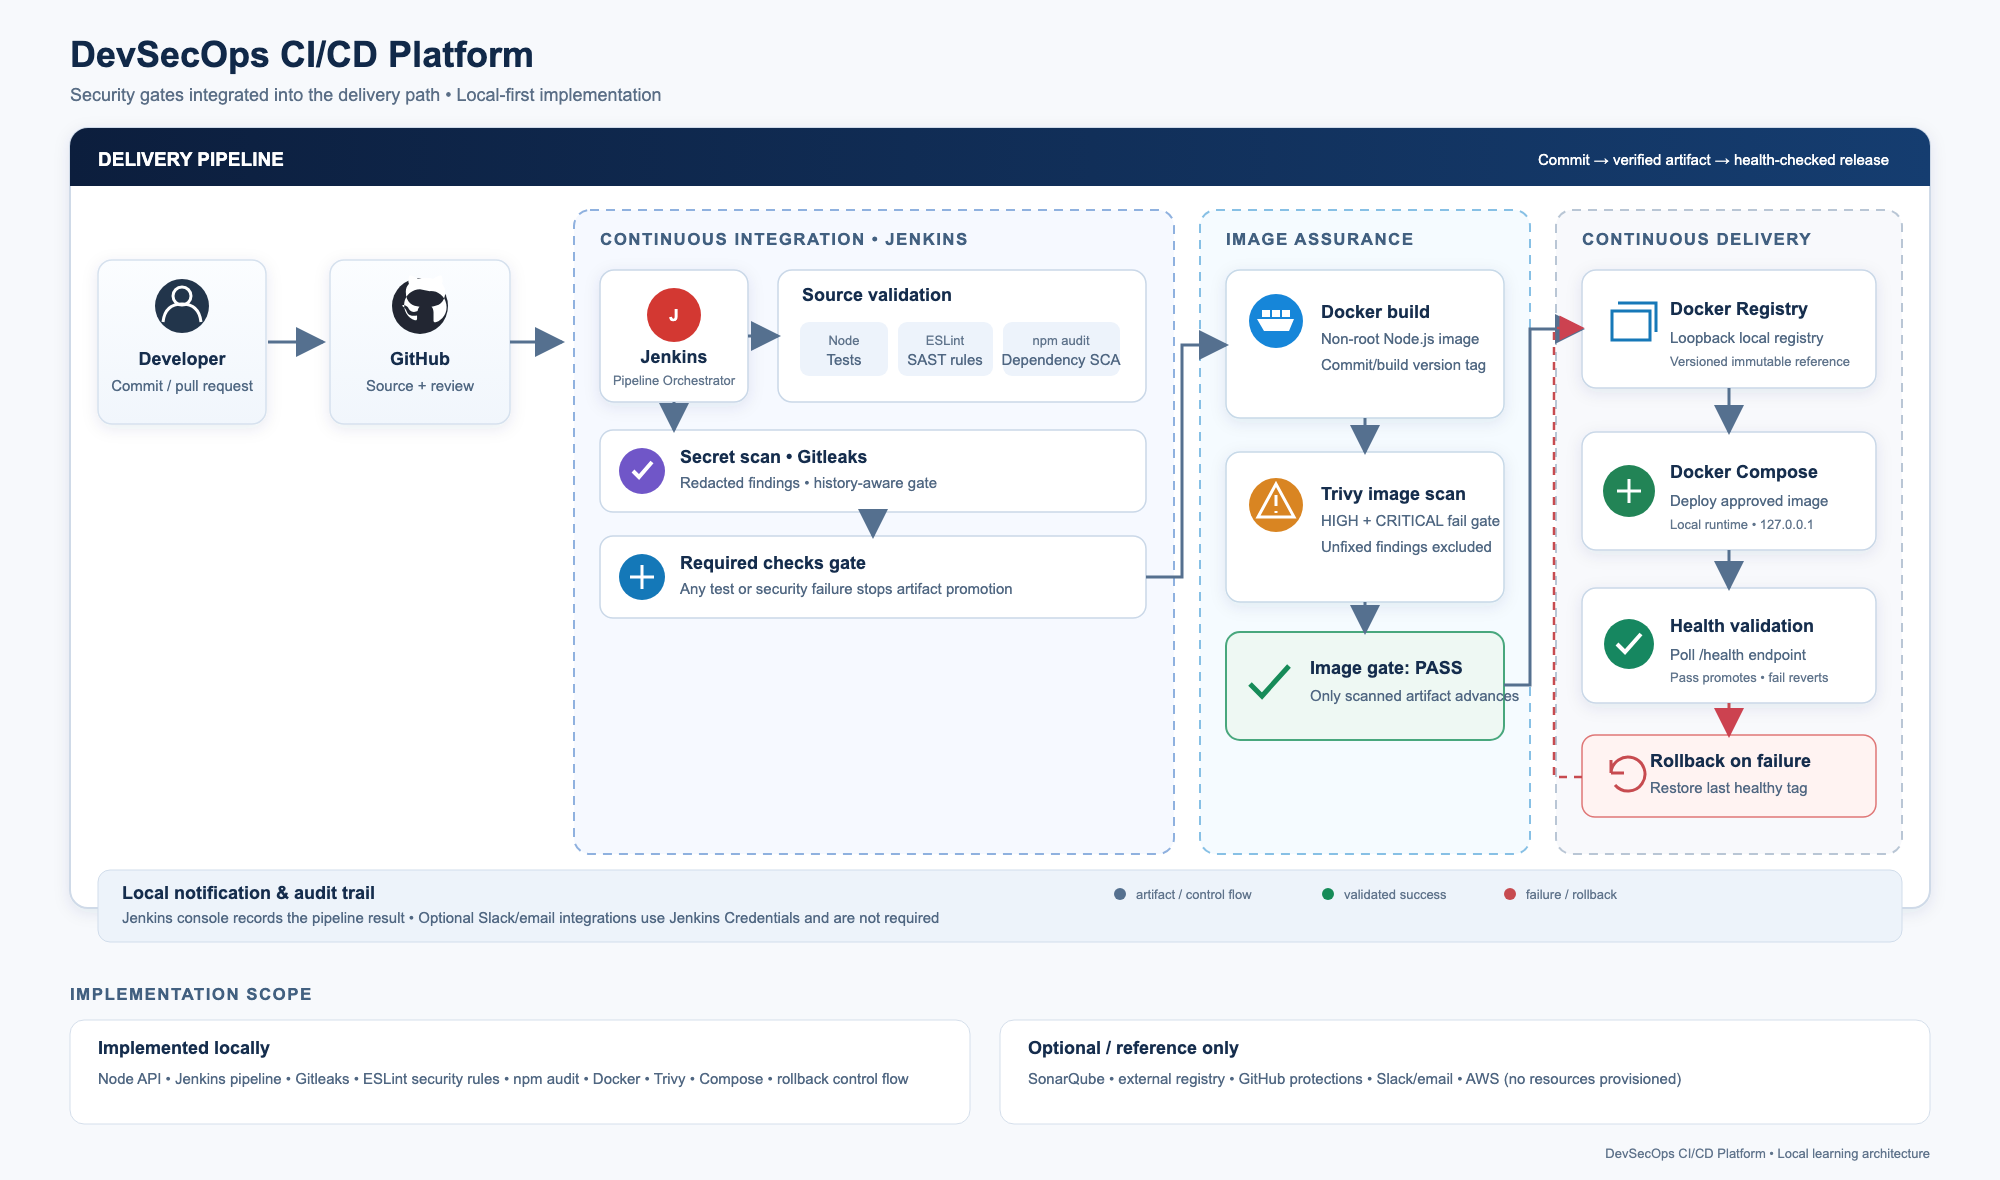
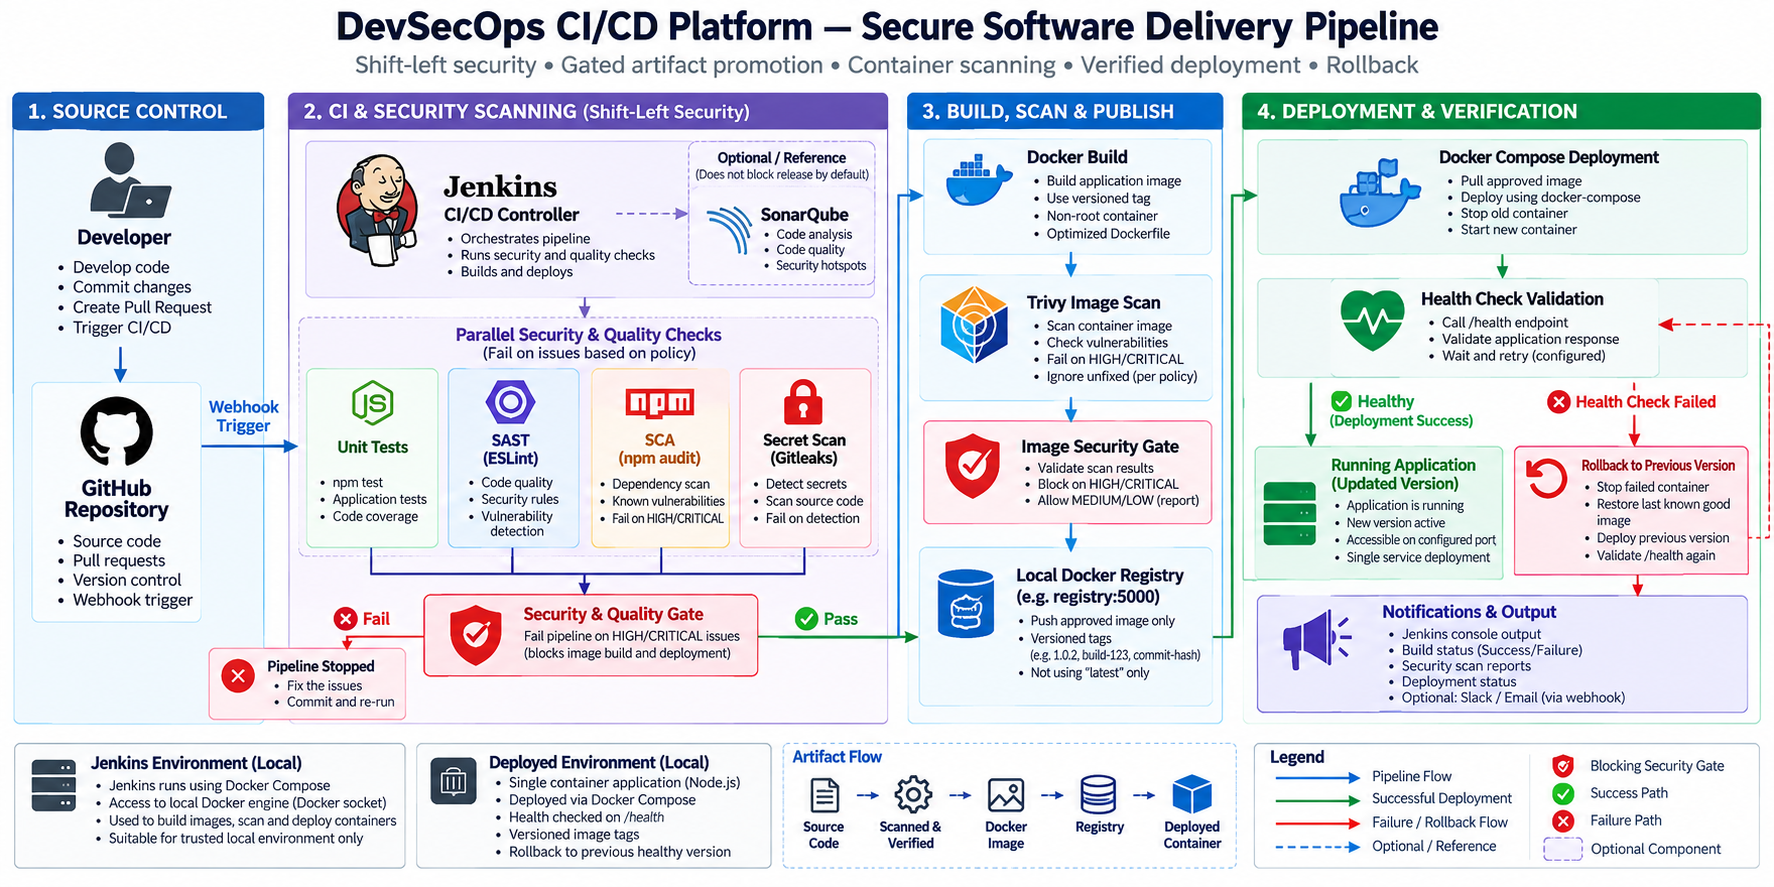
Update DevSecOps architecture diagram

Changed region(s): [[0.0, 0.0, 1.0, 1.0]]

diff --git a/architecture/architecture.md b/architecture/architecture.md
@@ -6,13 +6,13 @@ This is a **local-first DevSecOps hands-on portfolio project**. GitHub hosts sou
 
 ## Flow
 
-1. A developer pushes a branch or opens a pull request. GitHub starts a Jenkins SCM job; webhook configuration is an external repository setting and is not claimed as preconfigured.
+1. A developer pushes a branch or opens a pull request. A configured GitHub webhook can trigger Jenkins; webhook setup is an external repository setting and is not preconfigured by this project.
 2. Jenkins checks out the commit and derives a unique image tag from build number and commit prefix.
-3. It installs from package-lock.json, runs Node tests, ESLint security rules, npm audit, and Gitleaks. A nonzero check stops the pipeline.
+3. It installs from package-lock.json, runs Node tests with built-in coverage reporting, ESLint security rules, npm audit, and Gitleaks. A nonzero check stops the pipeline. Coverage is reported; no minimum percentage is enforced.
 4. Docker builds the app image. Trivy evaluates the local image. The report retains lower-severity findings; the selected gate blocks HIGH or CRITICAL vulnerabilities and ignores unfixed findings.
-5. On main, Jenkins pushes the scanned versioned artifact into the local registry. Compose deploys that same reference.
+5. In a main branch build (for example, a Jenkins Multibranch Pipeline), Jenkins pushes the scanned, versioned artifact to the local registry at localhost:5000. Compose deploys that same image reference.
 6. The deployment script polls /health. A failure causes a redeploy of the last recorded healthy image and a second health validation.
-7. Jenkins console output reports completion or failure. Slack/email hooks remain optional integrations.
+7. Jenkins console output reports completion or failure. Slack/email are optional integrations. SonarQube is shown as an optional reference and is not a blocking pipeline stage.
 
 ## Trust and artifact boundaries
 
@@ -25,7 +25,7 @@ This is a **local-first DevSecOps hands-on portfolio project**. GitHub hosts sou
 
 ## Security gates and limitations
 
-Unit tests, lint, dependency audit, Gitleaks, and Trivy image scanning are blocking checks in Jenkinsfile. npm audit uses HIGH as its minimum failing severity; Trivy uses HIGH and CRITICAL and ignores unfixed findings. These thresholds are explicit project policy choices. ESLint security rules are lightweight source analysis, not equivalent to a mature commercial SAST engine. SonarQube is optional and separately configured; it is not a required pipeline result.
+Unit tests (with coverage reporting), lint, dependency audit, Gitleaks, and Trivy image scanning are blocking checks in Jenkinsfile. npm audit uses HIGH as its minimum failing severity; Trivy uses HIGH and CRITICAL and ignores unfixed findings. These thresholds are explicit project policy choices. ESLint security rules are lightweight source analysis, not equivalent to a mature commercial SAST engine. SonarQube is optional and separately configured; it is not a required pipeline result.
 
 ## Local deployment and rollback
 

diff --git a/README.md b/README.md
@@ -81,7 +81,7 @@ Stop with docker compose -f jenkins/compose.yml down. Use down -v only if you in
 | Stage | Check or action | Release effect |
 |---|---|---|
 | Checkout and version | Git commit plus build-number tag | Produces unique version |
-| Install and unit tests | npm ci, node --test | Failure blocks release |
+| Install and unit tests | npm ci, Node tests with coverage report | Test failure blocks release; coverage is informational |
 | SAST / lint | ESLint security rules | Finding blocks release |
 | Dependency SCA | npm audit --audit-level=high | HIGH/CRITICAL audit exit blocks release |
 | Secret scan | Gitleaks Git scan, redacted output | Detected secret blocks release |
@@ -114,7 +114,7 @@ That test stubs Docker and curl: it verifies the rollback command path, but does
 
 The implementation was exercised locally:
 
-- Node unit tests, ESLint security rules, and npm audit passed; audit reported zero known vulnerabilities at scan time.
+- Node unit tests passed with coverage reporting enabled, ESLint security rules passed, and npm audit reported zero known vulnerabilities at scan time. Coverage is informational; no minimum percentage is enforced.
 - Gitleaks directory scan had no findings. The temporary configured canary was detected and returned nonzero as expected.
 - Trivy filesystem scan and built-image report/gate completed; no HIGH/CRITICAL image findings remained after removing unused bundled npm/Yarn trees from runtime.
 - Docker image build and container startup passed; the container ran as node and reported healthy.

diff --git a/app/README.md b/app/README.md
@@ -22,4 +22,4 @@ From the repository root:
     docker build -t devsecops-demo-api:local --build-arg APP_VERSION=1.0.0 app
     docker run --rm -p 8080:3000 devsecops-demo-api:local
 
-The runtime image installs production dependencies only and runs as the unprivileged node account. It contains no credentials. Tests use Node's built-in test runner.
+The runtime image installs production dependencies only and runs as the unprivileged node account. It contains no credentials. Tests use Node's built-in test runner with coverage reporting; no minimum coverage threshold is enforced.
